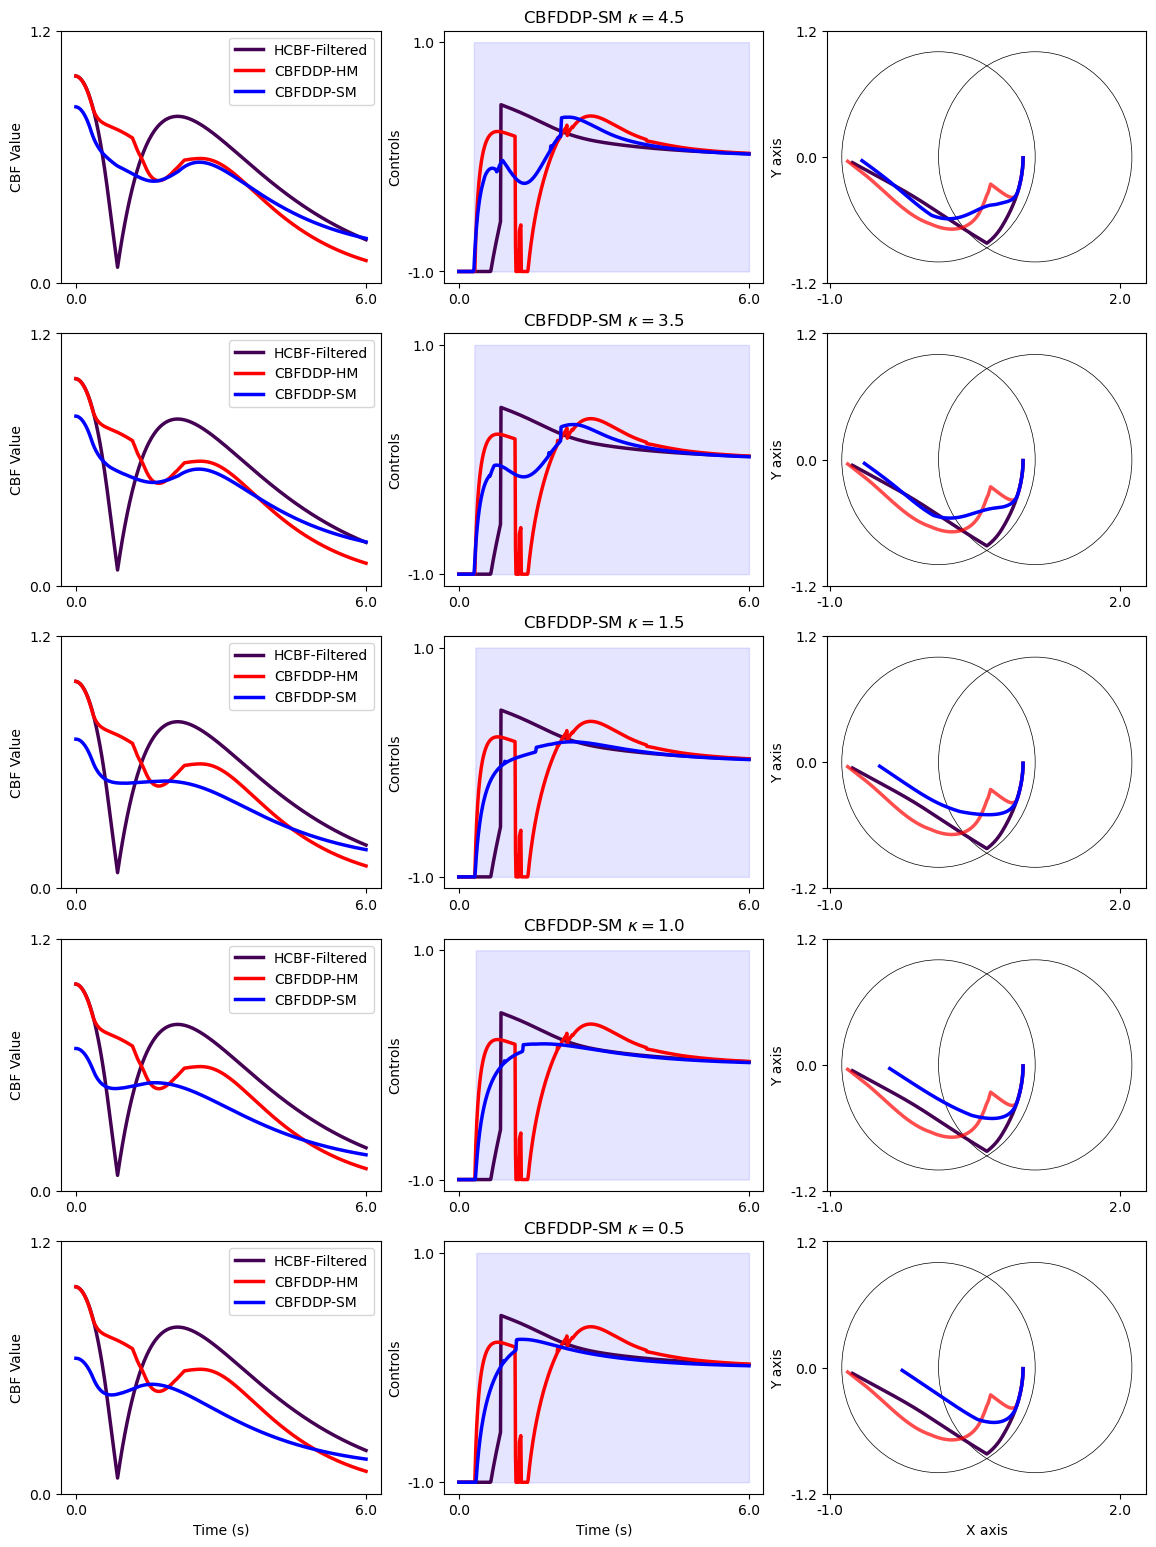
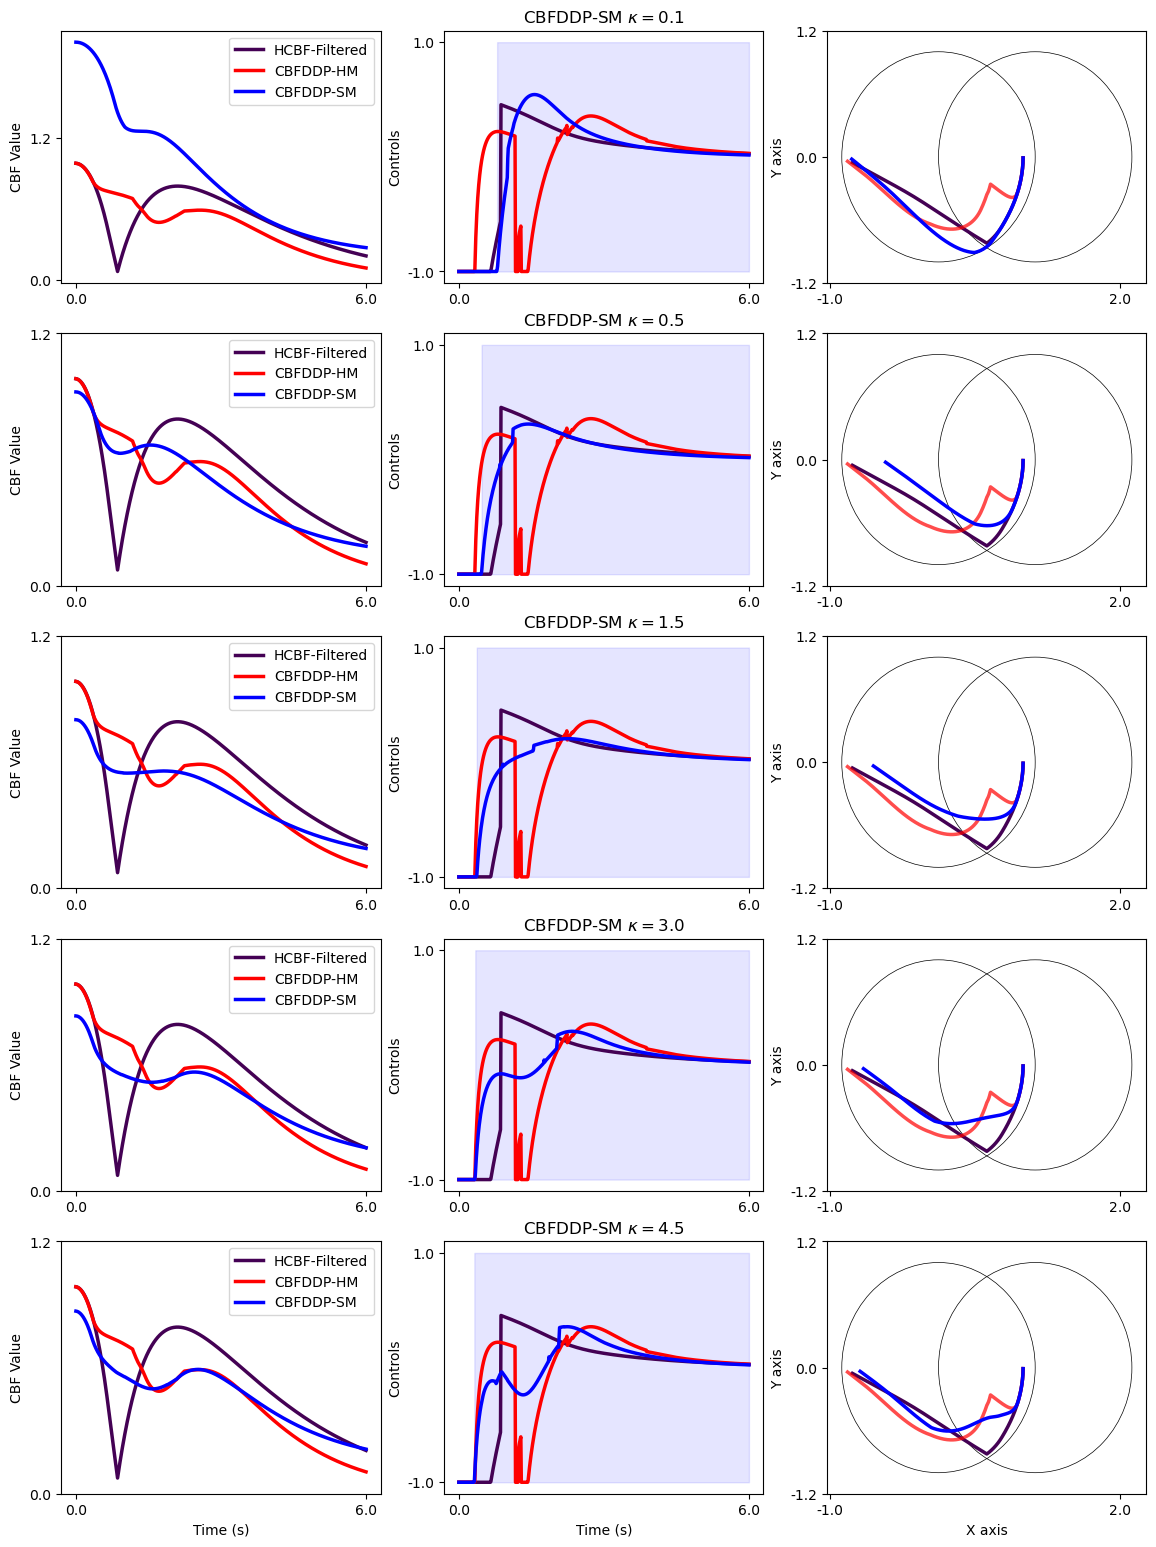
updates

diff --git a/cbfs_and_costs.py b/cbfs_and_costs.py
@@ -94,7 +94,7 @@ class MultiCBF(CBF):
         h2 = self.beta - (state_x_m - (self.c + self.shift)).T @ self.P @ (state_x_m - (self.c + self.shift))
 
         if self.use_smoothening:
-            hsm = (np.log(np.exp(self.kappa*h1) + np.exp(self.kappa*h2)) - np.log(2))/self.kappa
+            hsm = (np.log(np.exp(self.kappa*h1) + np.exp(self.kappa*h2)) - 0.8*np.log(2))/self.kappa
             return hsm
         else:
             return np.maximum(h1, h2)

diff --git a/evaluation.py b/evaluation.py
@@ -126,7 +126,7 @@ for row_number in range(5):
 
 
 cbf.use_smoothening = True
-for kiter, kappa in enumerate([4.5, 3.5, 1.5, 1.0, 0.5]):
+for kiter, kappa in enumerate([0.1, 0.5, 1.5, 3.0, 4.5]):
     cbf.kappa = kappa
     ddpcbf_smooth_dict = run_simulation(linear_sys, cbf, method='ddpcbf', Rc=cbf_a_params['Rc'], horizon=cbf_a_params['horizon'], gamma=cbf_a_params['gamma'])
     ddpcbf_smooth_simulation_states = ddpcbf_smooth_dict['simulation_states']

diff --git a/policies.py b/policies.py
@@ -317,7 +317,7 @@ class DDPCBFFilter:
 
         _, Bd, _, _ = dyn_copy.get_jacobian(state_x, control_cbf)
 
-        eps_regularization = 1e-4
+        eps_regularization = 1e-6
 
         constraint_violation = solver_dict_plan_2['reachable_margin'] - self.gamma*solver_dict_plan_1['reachable_margin']
         scaled_c = constraint_violation 
